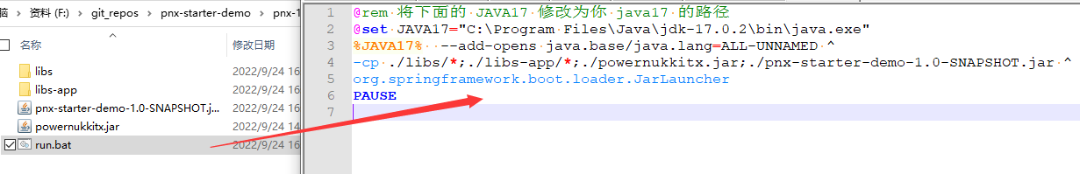
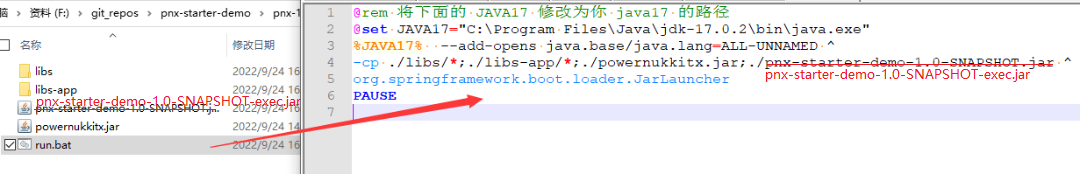
update redme

Changed region(s): [[0.0306, 0.546, 0.275, 0.6322], [0.7028, 0.4023, 0.9778, 0.4598], [0.7028, 0.3448, 0.9778, 0.3736]]

diff --git a/README.md b/README.md
@@ -1,15 +1,10 @@
 # pnx-starter-demo
 
-
-
 `pnx-spring-boot-starter` 有两种方式进行开发，区别在于一个是嵌入式，一个是非嵌入式。  
-
-嵌入式即打包后，所有三方依赖存在于 `jar` 包内部，更新 `pnx` 核心的时候，就要重新打包。  
-
+嵌入式即打包后，所有三方依赖存在于 `jar` 包内部，更新 `pnx` 核心的时候，就要重新打包。
 非嵌入式则是把所有依赖放在 `jar` 包外部，启动时指定三方依赖的位置，需要更换 `pnx` 核心时，就只需要更新 `pnx` 依赖。
 
-
-
+**注：所有图片中的 `pnx-starter-demo-1.0-SNAPSHOT.jar` 均指代 `pnx-starter-demo-1.0-SNAPSHOT-exec.jar`**
 ### 环境
 demo 0.1  
 
@@ -31,31 +26,23 @@ PowerNukkitX: 1.6.0.0-PNX
 mvn clean package
 # 运行
 cd target
-java -jar --add-opens java.base/java.lang=ALL-UNNAMED pnx-starter-demo-1.0-SNAPSHOT.jar
+java -jar --add-opens java.base/java.lang=ALL-UNNAMED pnx-starter-demo-1.0-SNAPSHOT-exec.jar
 ```
 
-
-
-
-
 #### 非嵌入式 Non-Embed
-
 非嵌入式参考 `pom.xml` 配置  
-
-  
-a. 创建一个空文件夹 ，例如： `pnx-1.19.30-r1`  
-
+ 
+a. 创建一个空文件夹 ，例如： `pnx-1.19.30-r1`
 `pnx-1.19.30-r1` 下面继续创建文件夹 `libs-app` 和 `libs` 。  
 
-b. 打包  
-
+b. 打包
 ```
 mvn clean package
 ```
 
 c. 将打包生成的 `target/libs`  复制到 `pnx-1.19.30-r1/libs-app` ，  
 
-将 `target/pnx-starter-demo-1.0-SNAPSHOT.jar` 复制到 `pnx-1.19.30-r1/pnx-starter-demo-1.0-SNAPSHOT.jar`   
+将 `target/pnx-starter-demo-1.0-SNAPSHOT-exec.jar` 复制到 `pnx-1.19.30-r1/pnx-starter-demo-1.0-SNAPSHOT-exec.jar`   
 
 ![compile](doc-imgs/compile-1.jpg)
 
@@ -77,7 +64,7 @@ e. 启动脚本
 @rem 将下面的 JAVA17 修改为你 java17 的路径
 @set JAVA17="C:\Program Files\Java\jdk-17.0.2\bin\java.exe"
 %JAVA17%  --add-opens java.base/java.lang=ALL-UNNAMED ^
--cp ./libs/*;./libs-app/*;./powernukkitx.jar;./pnx-starter-demo-1.0-SNAPSHOT.jar ^
+-cp ./libs/*;./libs-app/*;./powernukkitx.jar;./pnx-starter-demo-1.0-SNAPSHOT-exec.jar ^
 org.springframework.boot.loader.JarLauncher
 PAUSE
 
@@ -87,9 +74,9 @@ PAUSE
 
 ```sehll
 # 将下面的 JAVA17 修改为你 java17 的路径
-set JAVA17="C:\Program Files\Java\jdk-17.0.2\bin\java.exe"
+JAVA17="C:\Program Files\Java\jdk-17.0.2\bin\java.exe"
 $JAVA17  --add-opens java.base/java.lang=ALL-UNNAMED \
--cp ./libs/*:./libs-app/*:./powernukkitx.jar:./pnx-starter-demo-1.0-SNAPSHOT.jar \
+-cp ./libs/*:./libs-app/*:./powernukkitx.jar:./pnx-starter-demo-1.0-SNAPSHOT-exec.jar \
 org.springframework.boot.loader.JarLauncher
 
 ```
